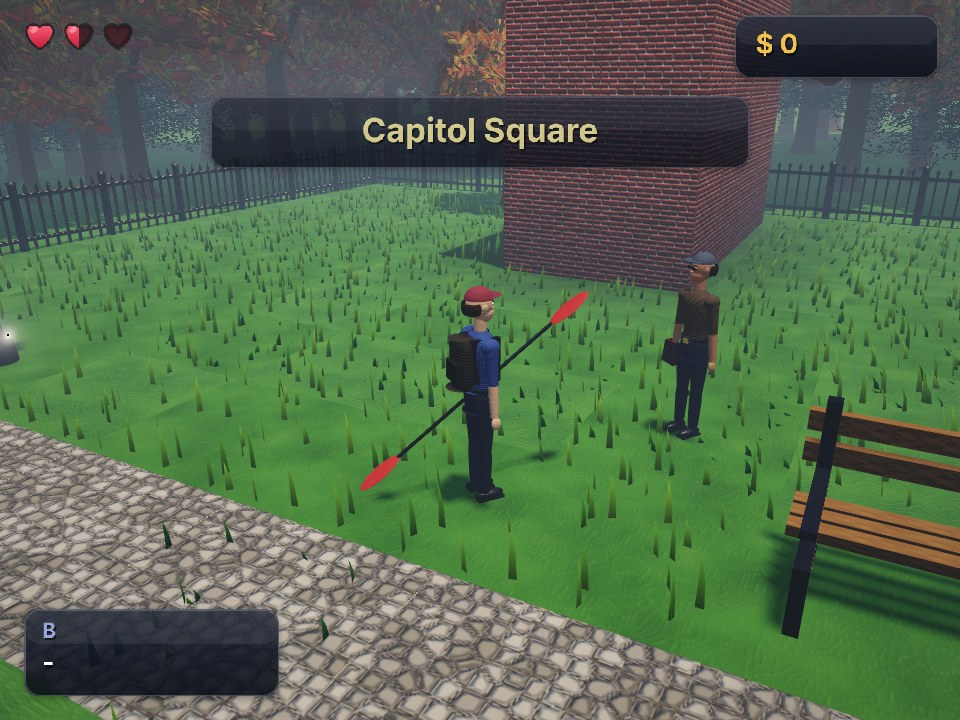
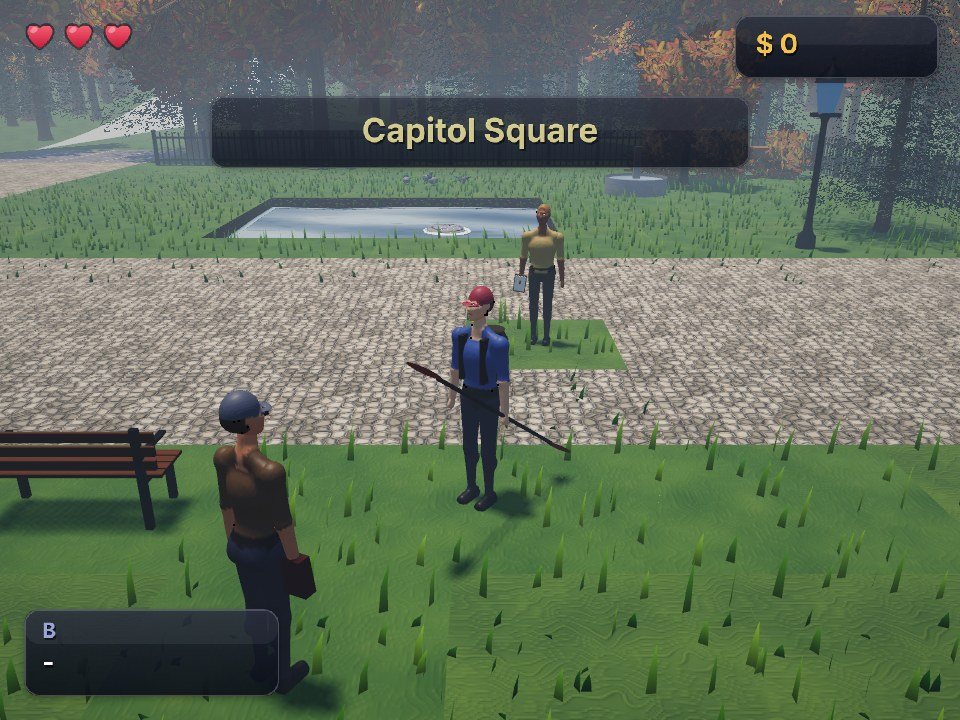
Sculpted people and real facades at true scale
People are now sculpted: anatomy blocked out from blended shapes and meshed
with surface nets into one smooth body per part, with faces (brows,
cheekbones, nose, lips, ears, set-in eyes), male and female builds, and
clothing, skin and hair colors that blend at their edges. Body types are
cached so crowds stay cheap.

Building walls are built around real openings: windows and doors are holes
with reveals, set-back frames and glass, with granite sills and lintels,
paneled doors and transoms on stoops, shop fronts, base and belt courses,
cornices and downspouts, textured at true scale. Enterable buildings and
the large landmarks get the same windows. Park benches are real size.
The renderer guards against degenerate normals, and the errand tests keep
the bot out of harm's way.

Claude-Session: https://claude.ai/code/session_01Eoe2yTJzU23vy12F62G5WF

diff --git a/tests/life.test.js b/tests/life.test.js
@@ -5,8 +5,9 @@ const step=(o,n)=>{for(let i=0;i<(n||1);i++){clr();Object.assign(I,o||{});G.upda
 const talkThrough=(pick)=>{for(let k=0;k<200&&G.dlg;k++){G.dlg.n=999;if(G.dlg.choices&&G.dlg.i==G.dlg.lines.length-1)G.dlg.sel=pick||0;step({a:1});step({},2);}};
 const settle=()=>{for(let k=0;k<80&&(G.trans||G.dlg);k++){if(G.dlg)talkThrough(0);else step();}};
 const face=(x,z)=>{G.p.yaw=Math.atan2(x-G.p.x,z-G.p.z);};
-const talk=(n,pick)=>{G.p.x=n.x;G.p.z=n.z+1.6;face(n.x,n.z);step({a:1});talkThrough(pick);};
-const go=(id,x,z)=>{G.loadScene(id,x,z,0);step({},2);talkThrough();};
+const talk=(n,pick)=>{for(const [ox,oz] of [[0,1.6],[1.6,0],[-1.6,0],[0,-1.6]]){G.p.x=n.x+ox;G.p.z=n.z+oz;face(n.x,n.z);step({a:1});if(G.dlg||G.shop)break;}talkThrough(pick);};
+// keep the bot safe from wandering geese and night ghosts while it runs errands
+const go=(id,x,z)=>{G.loadScene(id,x,z,0);step({},2);talkThrough();G.p.inv=1e9;for(const e of G.enemies)e.dead=true;};
 G.startGame(null);settle();G.st.coins=300;
 
 ok(G.EXTRA_NPCS.length==4,'four new townspeople found a spot: '+G.EXTRA_NPCS.map(n=>n.who).join(', '));

diff --git a/README.md b/README.md
@@ -9,15 +9,16 @@ It's the same game as the [PS1-style version](https://github.com/doodersrage/riv
 | | |
 |---|---|
 | ![Shockoe Bottom](screenshots/shockoe-bottom.jpg) | ![The Fan](screenshots/the-fan.jpg) |
+| ![Broad Street](screenshots/broad-street.jpg) | ![Capitol Square](screenshots/capitol-square.jpg) |
 | ![Byrd Park](screenshots/byrd-park.jpg) | ![Belle Isle at sunset](screenshots/belle-isle-sunset.jpg) |
-| ![Church Hill at night](screenshots/church-hill-night.jpg) | ![Capitol Square](screenshots/capitol-square.jpg) |
+| ![Church Hill at night](screenshots/church-hill-night.jpg) | |
 
 ## The look
 
-- **People at real proportions:** adults about 7.5 heads tall, with faces, hair, cloth, denim, leather and skin materials, dressed in muted real-world colors.
+- **Sculpted people:** bodies are modeled like a sculptor blocks out anatomy (shoulders, chest, hips, calves, hands, and faces with brows, cheekbones, nose, lips, ears and set-in eyes), blended into one smooth surface, at real adult proportions. Men and women have different builds, and clothes, skin and hair blend at their edges.
 - **Real trees and plants:** oaks, maples and pines with forked trunks and crowns built from thousands of leaves, which cast dappled shadows. Mulched flower beds, shrubs and lumpy boulders. The leaves follow the real calendar.
 - **Richmond's streets:** cobblestones in Shockoe Bottom and on Church Hill, asphalt with trolley rails on Broad Street, brick sidewalks with granite curbs in the old neighborhoods, and gravel paths in the parks.
-- **Buildings at real scale:** three-meter stories with framed windows, granite sills and lintels, paneled doors on stone stoops, shop fronts with awnings, belt courses and cornices, in red, dark and tawny brick or painted stucco.
+- **Buildings at real scale:** 3.3-meter stories. Windows and doors are real openings in the wall with reveals, set-back frames and glass, granite sills and lintels; doors are paneled with transoms over stone stoops; shop fronts have awnings and sign bands; walls have base courses, belt courses, bracketed cornices and downspouts. The buildings you can walk into and the big landmarks get the same treatment.
 - **Animals as they look:** Norway rats, gray squirrels, Canada geese, blue crabs, brown bats, rock pigeons and a snapping turtle, plus half-seen, translucent ghosts. Parked cars are proper sedans.
 
 - **Physically based materials:** brick, cobblestone, slate, wood, marble and grass are painted at full resolution with surface relief, roughness and metalness, and lit with real specular highlights.
